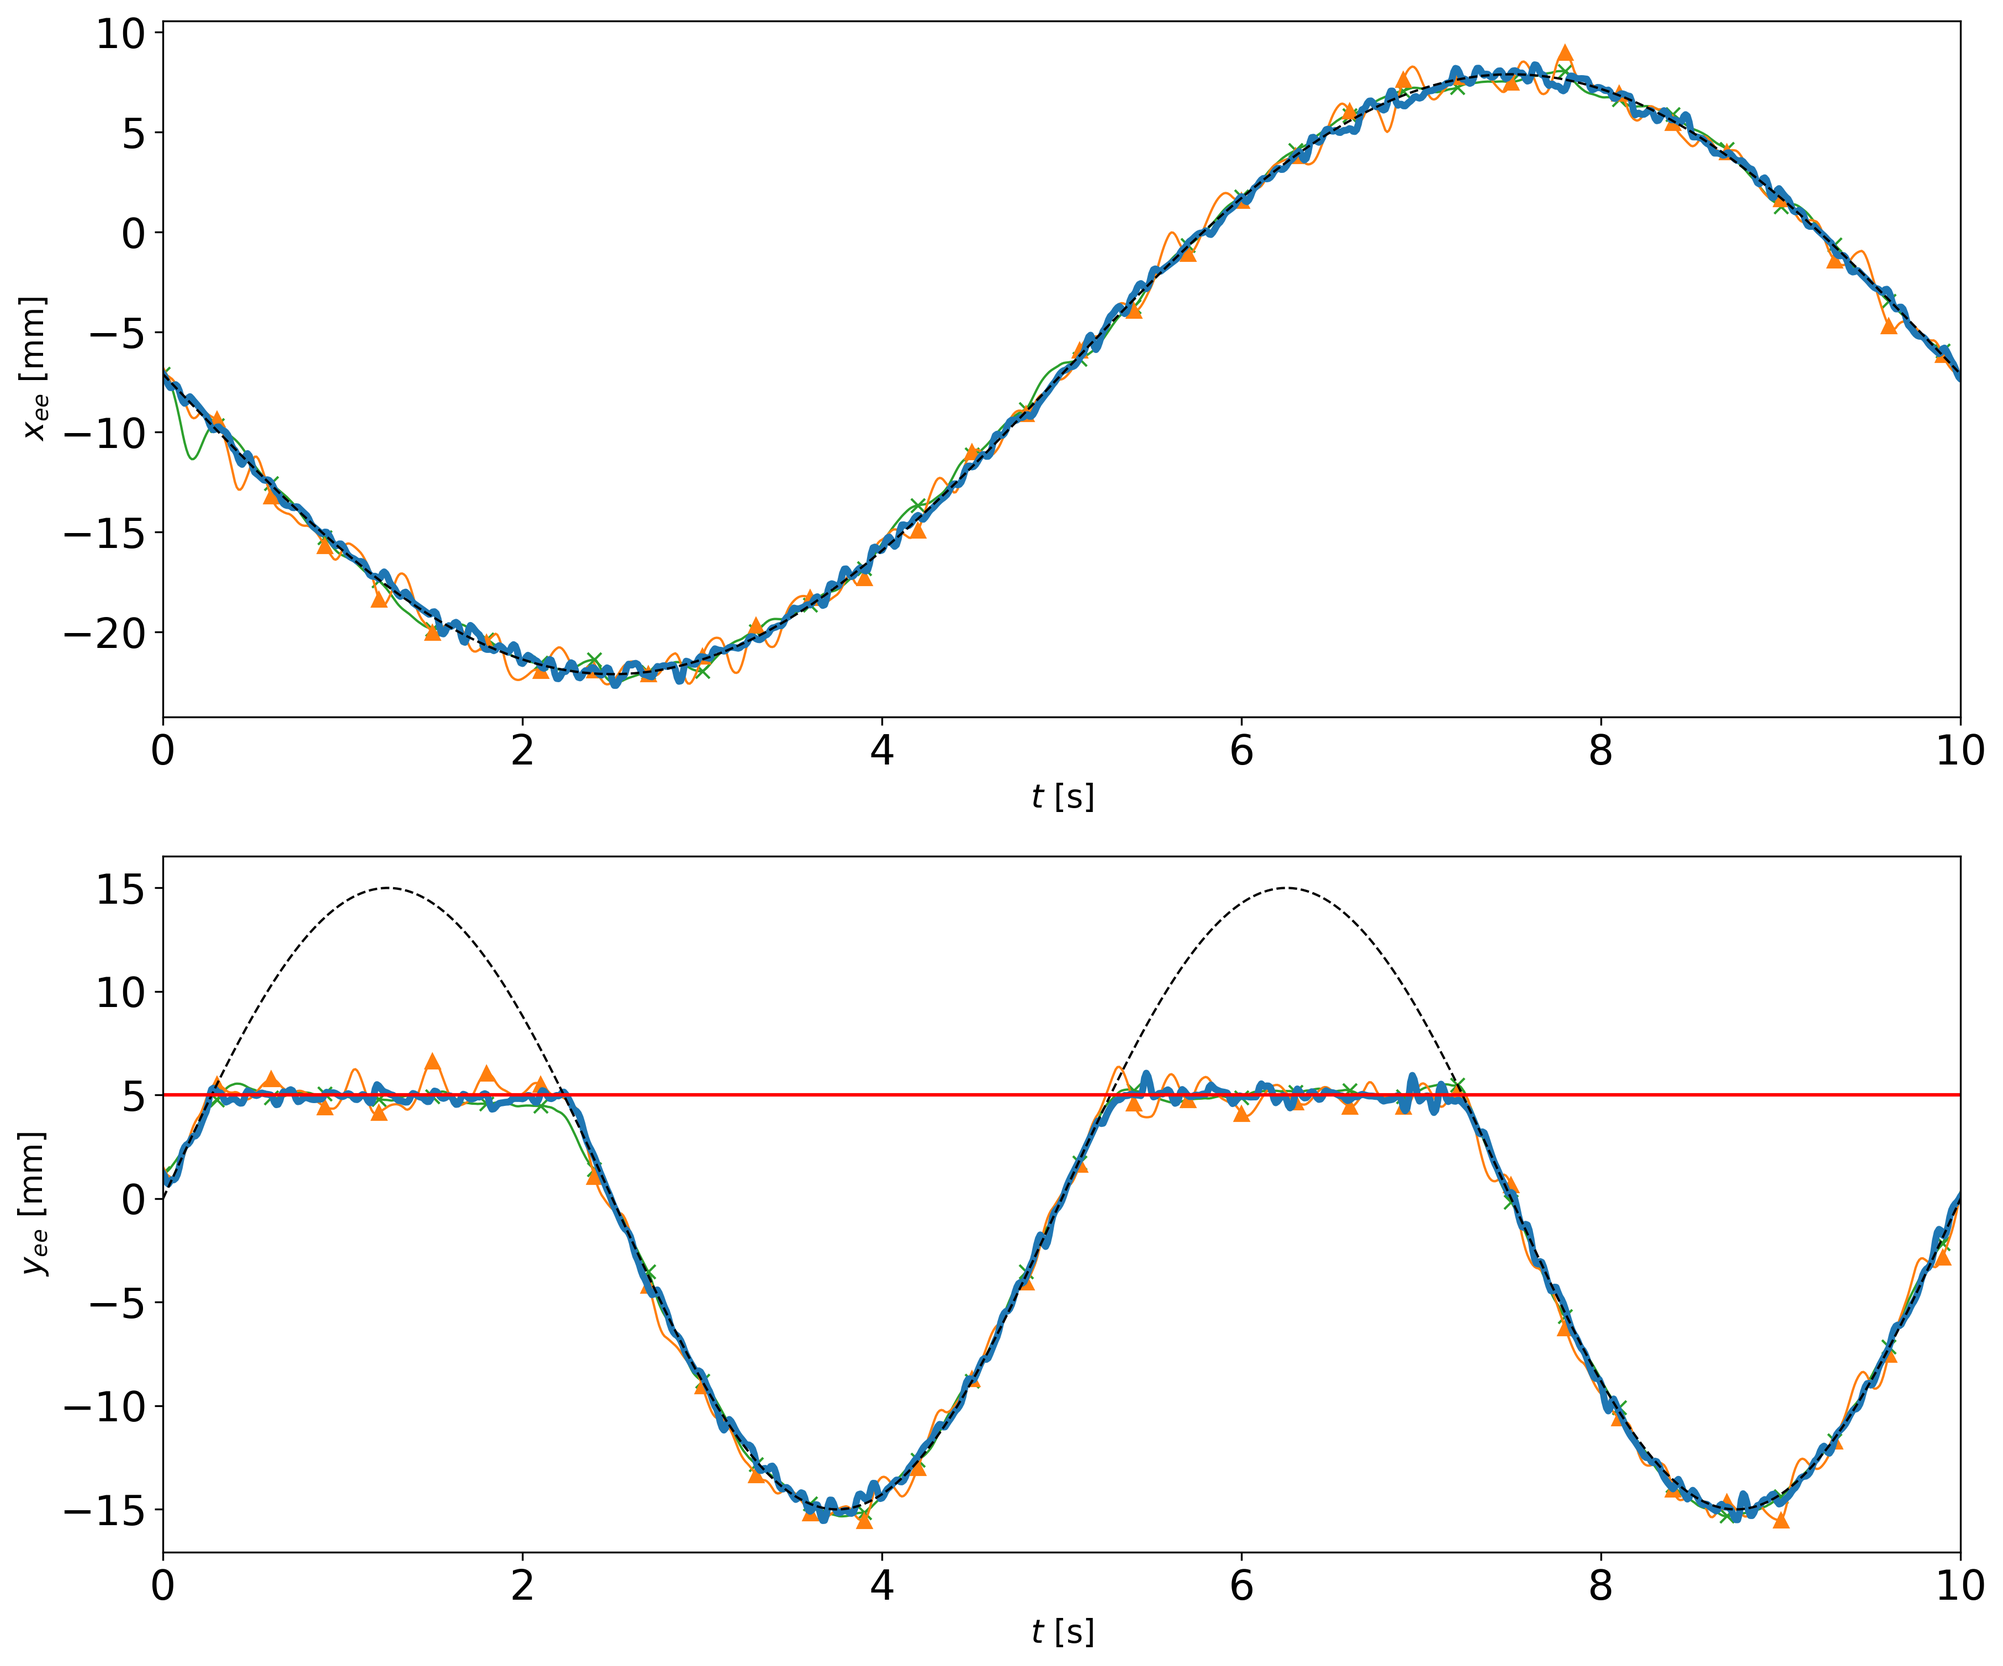
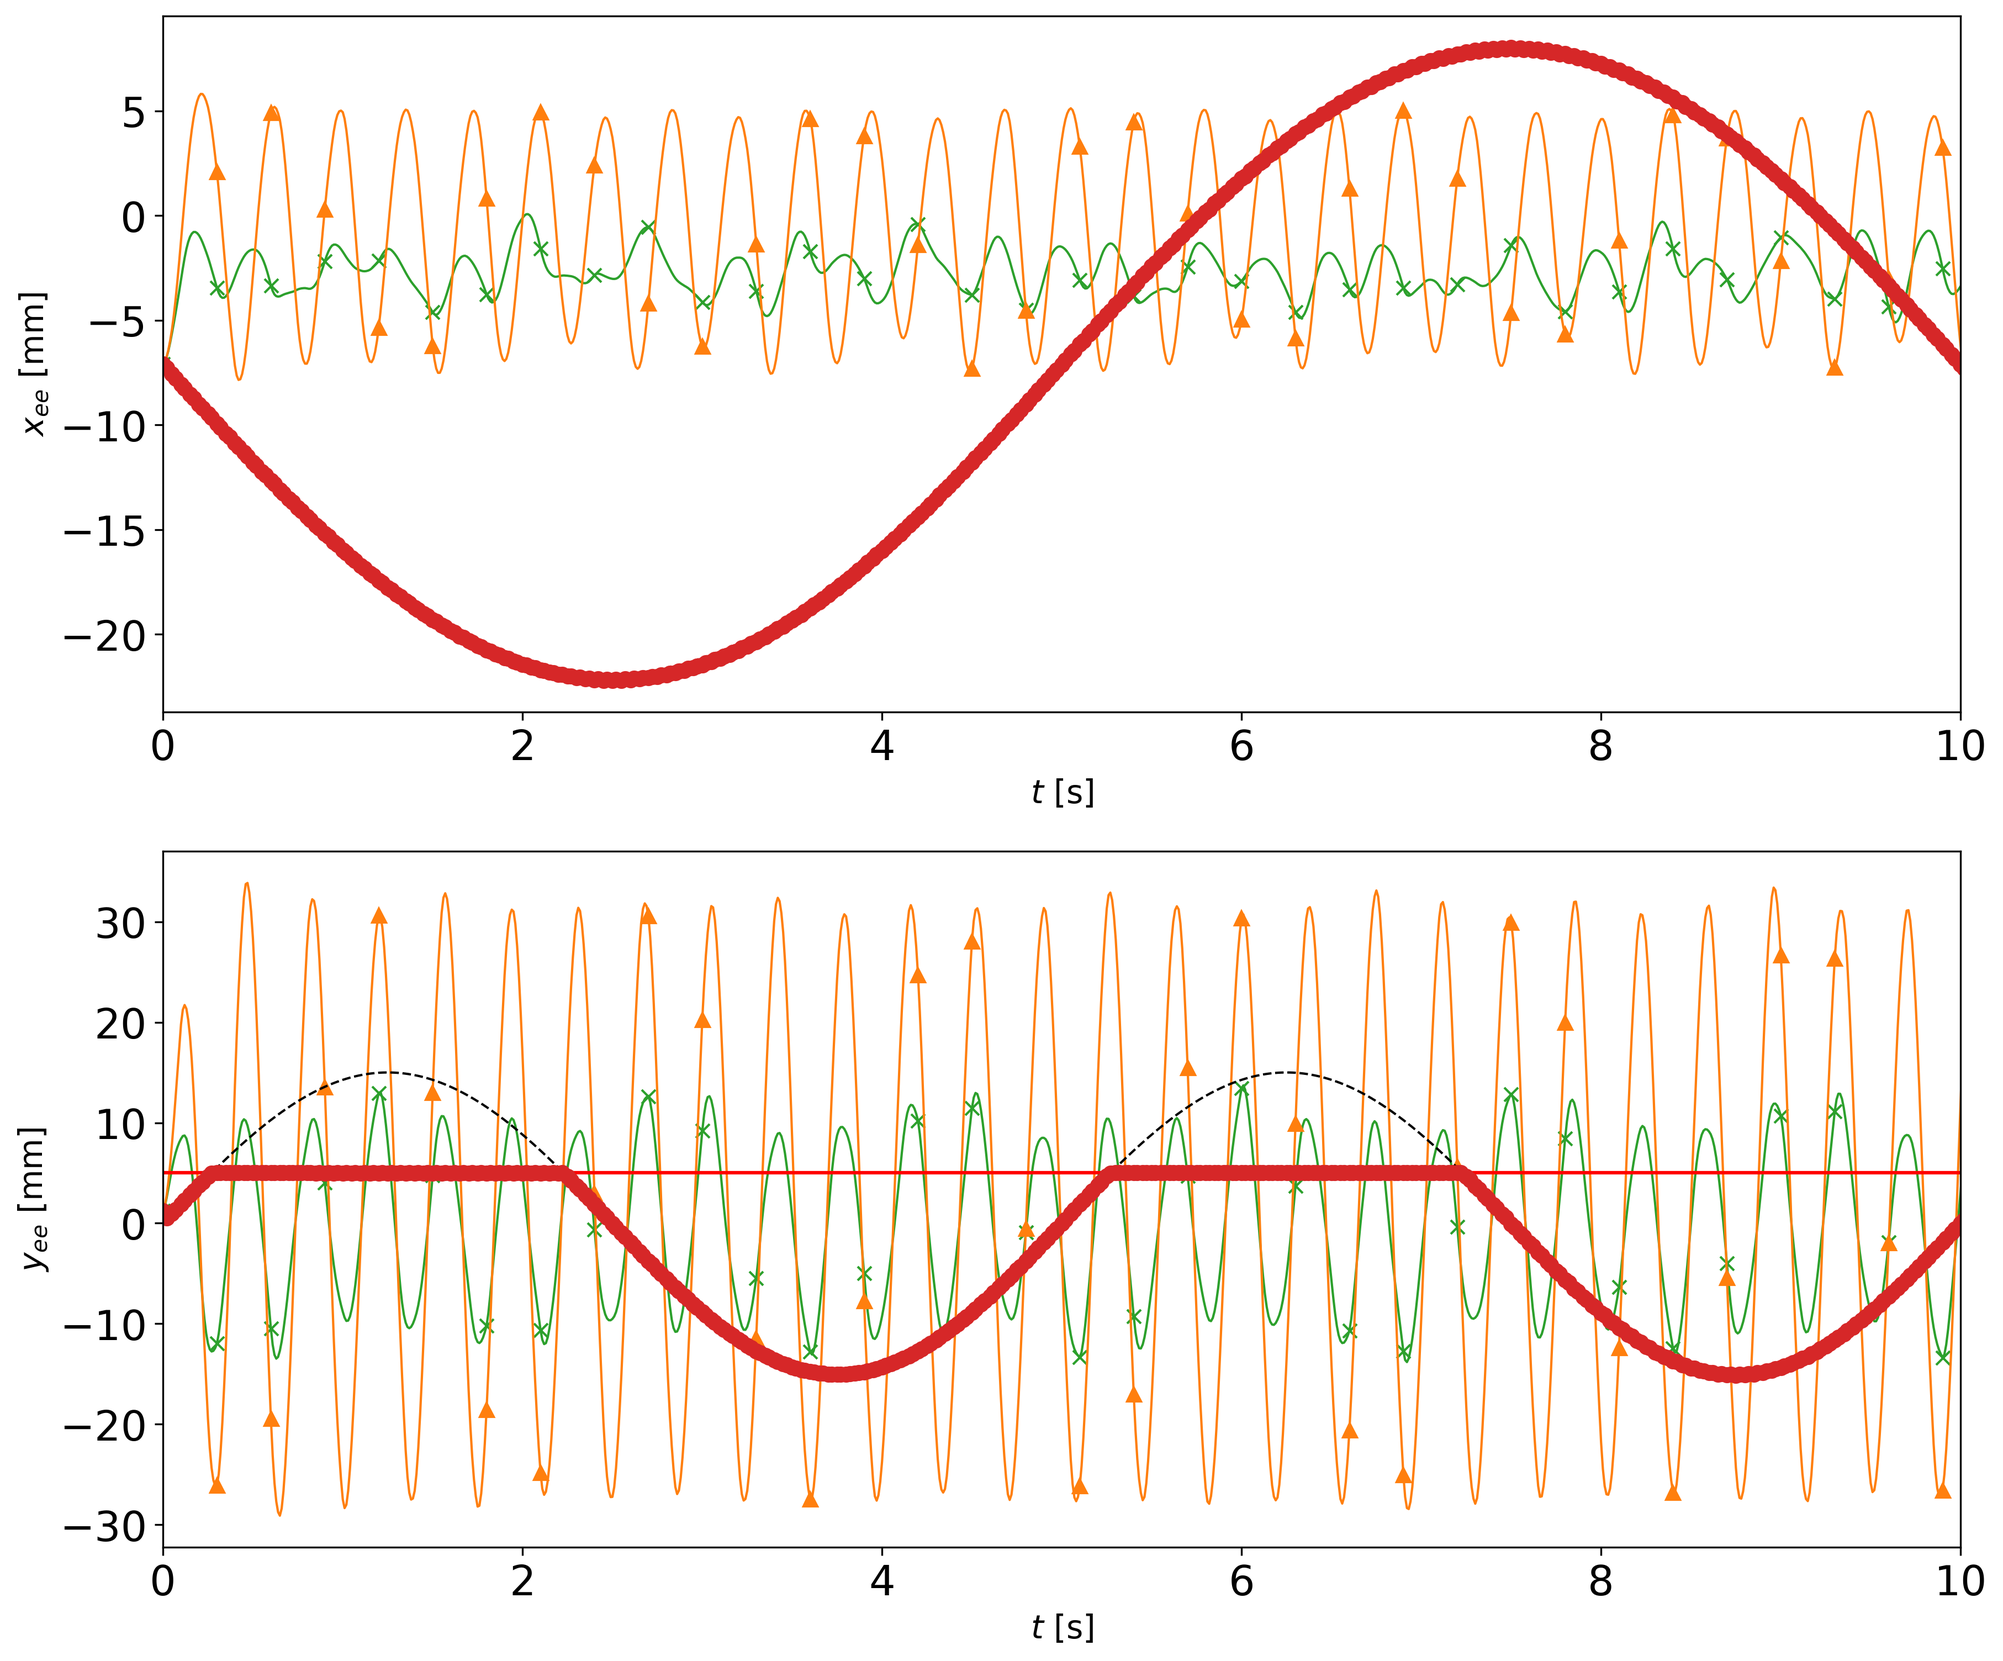
Fixed bug in constraint penalization. Continuing to debug time-delay case.

diff --git a/examples/hardware/diamond_SSM.py b/examples/hardware/diamond_SSM.py
@@ -181,8 +181,8 @@ def run_scp():
     pathToModel = path + '/SSMmodels/'
 
     # Specify a measurement and output model
-    cov_q = 0.1 * np.eye(3)
-    cov_v = 0.1 * np.eye(3 * len(DEFAULT_OUTPUT_NODES))
+    cov_q = 0.0 * np.eye(3)
+    cov_v = 0.0 * np.eye(3 * len(DEFAULT_OUTPUT_NODES))
     prob.output_model = prob.Robot.get_measurement_model(nodes=[1354])
 
     # Setup equilibrium point (no time delay and observed position and velocity of tip)
@@ -191,8 +191,7 @@ def run_scp():
         outputModel = linearModel([TIP_NODE], 1628, vel=False)
         z_eq_point = outputModel.evaluate(x_eq, qv=False)
         SSM_data = loadmat(join(pathToModel, 'SSM_model_delay.mat'))['py_data'][0, 0]
-        prob.measurement_model = MeasurementModel(nodes=[1354], num_nodes=1628, pos=True, vel=False, S_q=cov_q,
-                                                  S_v=cov_v)
+        prob.measurement_model = MeasurementModel(nodes=[1354], num_nodes=1628, pos=True, vel=False, S_q=cov_q)
         outputSSMModel = OutputModel(15, 3)
         Cout = outputSSMModel.C
     else:
@@ -211,7 +210,7 @@ def run_scp():
                             model=raw_model, params=raw_params, C=Cout)
 
     # This dt for when to recalculate control
-    dt = 0.02
+    dt = 0.01
 
     ##############################################
     # Problem 1, Figure 8 with constraints
@@ -236,7 +235,7 @@ def run_scp():
     # cost.R = .003 * np.eye(model.input_dim)
 
     # Define controller (wait 3 seconds of simulation time to start)
-    prob.controller = scp(model, cost, dt, N_replan=2, delay=3)
+    prob.controller = scp(model, cost, dt, N_replan=1, delay=3)
 
     # Saving paths
     prob.opt['sim_duration'] = 13.
@@ -295,22 +294,22 @@ def run_gusto_solver():
     # Problem 1, Figure 8 with constraints
     #############################################
     # Define cost functions and trajectory
-    # Qz = np.zeros((model.output_dim, model.output_dim))
-    # Qz[0, 0] = 100  # corresponding to x position of end effector
-    # Qz[1, 1] = 100  # corresponding to y position of end effector
-    # Qz[2, 2] = 0.0  # corresponding to z position of end effector
-    # R = .00001 * np.eye(model.input_dim)
+    Qz = np.zeros((model.output_dim, model.output_dim))
+    Qz[0, 0] = 100  # corresponding to x position of end effector
+    Qz[1, 1] = 100  # corresponding to y position of end effector
+    Qz[2, 2] = 0.0  # corresponding to z position of end effector
+    R = .00001 * np.eye(model.input_dim)
 
     #### Define Target Trajectory ####
-    # M = 3
-    # T = 10
-    # N = 1000
-    # t = np.linspace(0, M * T, M * N)
-    # th = np.linspace(0, M * 2 * np.pi, M * N)
-    # zf_target = np.zeros((M * N, model.output_dim))
-    #
-    # zf_target[:, 0] = -15. * np.sin(th) - 7.1
-    # zf_target[:, 1] = 15. * np.sin(2 * th)
+    M = 3
+    T = 10
+    N = 1000
+    t = np.linspace(0, M * T, M * N)
+    th = np.linspace(0, M * 2 * np.pi, M * N)
+    zf_target = np.zeros((M * N, model.output_dim))
+
+    zf_target[:, 0] = -15. * np.sin(th) - 7.1
+    zf_target[:, 1] = 15. * np.sin(2 * th)
 
     # # zf_target[:, 0] = -25. * np.sin(th) + 13.
     # # zf_target[:, 1] = 25. * np.sin(2 * th) + 20
@@ -331,33 +330,34 @@ def run_gusto_solver():
     # Problem 2, Circle on side (2pi/T = frequency rad/s)
     #####################################################
     # Multiply 'th' in sine terms to factor rad/s frequency
-    M = 3
-    T = 5.
-    N = 1000
-    t = np.linspace(0, M * T, M * N)
-    th = np.linspace(0, M * 2 * np.pi, M * N)
-    x_target = np.zeros(M * N)
-
+    # M = 3
+    # T = 5.
+    # N = 1000
+    # t = np.linspace(0, M * T, M * N)
+    # th = np.linspace(0, M * 2 * np.pi, M * N)
+    # x_target = np.zeros(M * N)
+    #
     # r = 15
     # y_target = r * np.sin(th)
     # z_target = r - r * np.cos(th) + 107.0
 
-    r = 15
-    phi = 17
-    y_target = r * np.sin(phi * T / (2 * np.pi) * th)
-    z_target = r - r * np.cos(phi * T / (2 * np.pi) * th) + 107.0
+    # r = 15
+    # phi = 17
+    # y_target = r * np.sin(phi * T / (2 * np.pi) * th)
+    # z_target = r - r * np.cos(phi * T / (2 * np.pi) * th) + 107.0
 
-    zf_target = np.zeros((M * N, 6))
-    zf_target[:, 0] = x_target
-    zf_target[:, 1] = y_target
-    zf_target[:, 2] = z_target
+    # zf_target = np.zeros((M * N, model.output_dim))
+    #
+    # zf_target[:, 0] = x_target
+    # zf_target[:, 1] = y_target
+    # zf_target[:, 2] = z_target
 
     # Cost
-    R = .00001 * np.eye(4)
-    Qz = np.zeros((6, 6))
-    Qz[0, 0] = 100.0  # corresponding to x position of end effector
-    Qz[1, 1] = 100.0  # corresponding to y position of end effector
-    Qz[2, 2] = 100.0  # corresponding to z position of end effector
+    # R = .00001 * np.eye(4)
+    # Qz = np.zeros((model.output_dim, model.output_dim))
+    # Qz[0, 0] = 100.0  # corresponding to x position of end effector
+    # Qz[1, 1] = 100.0  # corresponding to y position of end effector
+    # Qz[2, 2] = 100.0  # corresponding to z position of end effector
 
     z = model.zfyf_to_zy(zf=zf_target)
 
@@ -372,19 +372,19 @@ def run_gusto_solver():
     # dU = HyperRectangle([dU_max, dU_max, dU_max, dU_max], [-dU_max, -dU_max, -dU_max, -dU_max])
 
     # State constraints (q,v format)
-    # Hz = np.zeros((1, 6))
-    # Hz[0, 1] = 1
-    # b_z = np.array([5])
-    # X = Polyhedron(A=Hz, b=b_z - Hz @ model.z_ref)
+    Hz = np.zeros((1, model.output_dim))
+    Hz[0, 1] = 1
+    b_z = np.array([5])
+    X = Polyhedron(A=Hz, b=b_z - Hz @ model.y_ref)
 
     # No constraints for now
-    X = None
+    # X = None
 
     # Define initial condition to be x_ref for initial solve
-    x0 = model.compute_RO_state(model.y_ref)
+    x0 = np.zeros(model.state_dim)
 
     # Define GuSTO model (dt here is discretization of model)
-    dt = 0.02
+    dt = 0.01
     N = 3
     gusto_model = SSMGuSTO(model)
 

diff --git a/examples/hardware/plotting.py b/examples/hardware/plotting.py
@@ -10,20 +10,20 @@ from sofacontrol.utils import load_data, set_axes_equal
 
 path = dirname(abspath(__file__))
 
-constrained = False
+constrained = True
 plot_rompc = False
 #############################################
 # Problem 1, Figure 8 with constraints
 #############################################
-# M = 3
-# T = 10
-# N = 500
-# t_target = np.linspace(0, M*T, M*N)
-# th = np.linspace(0, M * 2 * np.pi, M*N)
-# zf_target = np.zeros((M*N, 6))
-#
-# zf_target[:, 3] = -15. * np.sin(th) - 7.1
-# zf_target[:, 4] = 15. * np.sin(2 * th)
+M = 3
+T = 10
+N = 500
+t_target = np.linspace(0, M*T, M*N)
+th = np.linspace(0, M * 2 * np.pi, M*N)
+zf_target = np.zeros((M*N, 6))
+
+zf_target[:, 3] = -15. * np.sin(th) - 7.1
+zf_target[:, 4] = 15. * np.sin(2 * th)
 
 # zf_target[:, 3] = -25. * np.sin(th) + 13
 # zf_target[:, 4] = 25. * np.sin(2 * th) + 20
@@ -47,28 +47,28 @@ name = 'figure8'
 ##############################################
 # Problem 2, Circle on side
 ##############################################
-M = 3
-T = 5
-N = 1000
-t_target = np.linspace(0, M*T, M*N)
-th = np.linspace(0, M*2*np.pi, M*N)
-
-r = 15
-phi = 17
-x_target = np.zeros(M*N)
-y_target = r * np.sin(phi * T / (2 * np.pi) * th)
-z_target = r - r * np.cos(phi * T / (2 * np.pi) * th) + 107.0
+# M = 3
+# T = 5
+# N = 1000
+# t_target = np.linspace(0, M*T, M*N)
+# th = np.linspace(0, M*2*np.pi, M*N)
+#
+# r = 15
+# phi = 17
+# x_target = np.zeros(M*N)
+# y_target = r * np.sin(phi * T / (2 * np.pi) * th)
+# z_target = r - r * np.cos(phi * T / (2 * np.pi) * th) + 107.0
 
 # r = 15
 # x_target = np.zeros(M*N)
 # y_target = r * np.sin(th)
 # z_target = r - r * np.cos(th) + 107
 
-zf_target = np.zeros((M*N, 6))
-zf_target[:, 3] = x_target
-zf_target[:, 4] = y_target
-zf_target[:, 5] = z_target
-name = 'circle'
+# zf_target = np.zeros((M*N, 6))
+# zf_target[:, 3] = x_target
+# zf_target[:, 4] = y_target
+# zf_target[:, 5] = z_target
+# name = 'circle'
 
 
 # Load SSM data
@@ -118,7 +118,7 @@ z_rompc = rompc_data['z'][idx:, :]
 solve_times_rompc = rompc_data['info']['solve_times']
 real_time_limit_rompc = rompc_data['info']['rollout_time']
 
-plot_rollouts = False
+plot_rollouts = True
 m_w = 30
 
 fig1 = plt.figure(figsize=(10, 8), facecolor='w', edgecolor='k')

diff --git a/sofacontrol/scp/gusto.py b/sofacontrol/scp/gusto.py
@@ -189,9 +189,18 @@ class GuSTO:
         Requires both state and final state constraints to be specified by Polyhedra (see gusto_utils.py)
         """
         max_violation = 0.0
+        update_constraint = False
         if self.X is not None:
             for i in range(x.shape[0]):
-                val = self.X.get_constraint_violation(x[i, :])
+                # TODO: x is reduced dynamics so if we have a nonlinear observer, then the constraint should be
+                # with respect to the performance variable
+                if self.nonlinear_observer:
+                    x_curr = np.atleast_2d(x[i, :])
+                    H_curr, c_curr = self.get_observer_linearizations(x_curr)
+                    self.X.update(H_curr[0], c_curr[0])
+                    update_constraint = True
+
+                val = self.X.get_constraint_violation(x[i, :], update=update_constraint)
                 if val > max_violation:
                     max_violation = val
 
@@ -237,9 +246,10 @@ class GuSTO:
 
         return A_d, B_d, d_d
 
-    def get_observer_linearizations(self, x, u):
+    def get_observer_linearizations(self, x, u=None):
         """
         Return the affine observer mappings at each point along trajectory in a list
+        TODO: Add input contribution to the dynamics
         """
         H_d = []
         c_d = []
@@ -359,7 +369,7 @@ class GuSTO:
                 self.xopt = np.copy(self.x_k)
                 self.uopt = np.copy(self.u_k)
                 if self.nonlinear_observer:
-                    self.zopt = self.model.dyn_sys.C_map(self.xopt.T)
+                    self.zopt = self.model.dyn_sys.W_map(self.xopt.T)
                 else:
                     self.zopt = np.transpose(self.model.H @ self.xopt.T)
                 return

diff --git a/sofacontrol/scp/locp.py b/sofacontrol/scp/locp.py
@@ -81,7 +81,7 @@ class LOCP:
             self.dd = cp.Parameter(self.N * self.n_x)
 
             # Adding observer linearization parameters here. Expect parameters to be None
-            # If dynamics class has nonlinear_observer = False. In this case this class should
+            # if dynamics class has nonlinear_observer = False. In this case this class should
             # use self.H as shown above. This seems to be different from when not warm_starting
             if self.nonlinear_observer:
                 self.Hd = [cp.Parameter((self.n_z, self.n_x)) for i in range(self.N + 1)]
@@ -326,7 +326,7 @@ class LOCP:
                 cdfull = cdfull[self.n_z:]
                 XAfull = block_diag(*[self.X.A for j in range(self.N)]) @ Hfull
                 Xbfull = np.tile(self.X.b, self.N) - block_diag(*[self.X.A for j in range(self.N)]) @ cdfull
-                constr += [XAfull @ self.x[self.n_z:] <= Xbfull]
+                constr += [XAfull @ self.x[self.n_x:] <= Xbfull]
             else:
                 XAfull = block_diag(*[self.X.A for j in range(self.N)])
                 Xbfull = np.tile(self.X.b, self.N)

diff --git a/sofacontrol/utils.py b/sofacontrol/utils.py
@@ -365,6 +365,8 @@ class Polyhedron:
     def __init__(self, A, b, with_reproject=False):
         self.A = A
         self.b = b
+        self.Ak = None
+        self.bk = None
 
         self.with_reproject = with_reproject
 
@@ -389,11 +391,14 @@ class Polyhedron:
         else:
             return True
 
-    def get_constraint_violation(self, x):
+    def get_constraint_violation(self, x, update=False):
         """
         Returns distance to constraint, i.e. how large the deviation is
         """
-        return np.linalg.norm(np.maximum(self.A @ x - self.b, 0))
+        if update:
+            return np.linalg.norm(np.maximum(self.Ak @ x - self.bk, 0))
+        else:
+            return np.linalg.norm(np.maximum(self.A @ x - self.b, 0))
 
     def project_to_polyhedron(self, x):
         if not self.with_reproject:
@@ -405,6 +410,9 @@ class Polyhedron:
         x_proj_alt = results.x
         return x_proj_alt
 
+    def update(self, Hk, ck):
+        self.Ak = np.dot(self.A, Hk)
+        self.bk = self.b - np.dot(self.A, ck)
 
 class HyperRectangle(Polyhedron):
     def __init__(self, ub, lb):

diff --git a/sofacontrol/SSM/controllers.py b/sofacontrol/SSM/controllers.py
@@ -115,10 +115,10 @@ class TemplateController(closed_loop_controller.TemplateController):
             # Updating controller (self.u) and/or policy (if first step or receding horizon)
             # Note: waiting to start simulation allows us to also populate the history to satisfy time-delay reqs
             if round(sim_time - self.t_delay, 4) >= round(self.t_compute, 4):  # self.t_compute set to 0
-                # TODO: Add lifting function to get delay embeddings (i.e., coordinatesEmbeddingControl)
+                # TODO: Add lifting function to get delay embeddings
                 y_belief = self.data.get_y_delay()
 
-                # TODO: Update observer value based on past measurements (set to current measurements for now)
+                # TODO: Update observer value based on past measurements
                 self.observer.update(None, y_belief, None)
 
                 if self.recompute_policy(self.t_compute):

diff --git a/sofacontrol/SSM/SSM_utils.py b/sofacontrol/SSM/SSM_utils.py
@@ -40,7 +40,7 @@ class SSMData:
             # udel = np.zeros((self.delay * self.u.shape[1]))
 
             for j in range(self.delays):
-                fillrange_y = range(self.y.shape[1] * j, self.y.shape[1] * (j + 1))
+                fillrange_y = range(-self.y.shape[1] * (j + 1), -self.y.shape[1] * j)
                 ydel[fillrange_y] = self.y[step - (j + 1), :]
 
                 # fillrange_u = range(self.u.shape[1] * j, self.u.shape[1] * (j + 1))

diff --git a/sofacontrol/SSM/ssm.py b/sofacontrol/SSM/ssm.py
@@ -189,7 +189,7 @@ class SSM:
     def reduced_to_output(self, x):
         return jnp.dot(self.C, jnp.dot(self.w_coeff, jnp.asarray(self.ssm_phi(*x))))
 
-    @partial(jax.jit, static_argnums=(0,))
+    #@partial(jax.jit, static_argnums=(0,))
     def observed_to_reduced(self, y):
         if self.v_coeff is not None:
             return jnp.dot(self.v_coeff, jnp.asarray(self.ssm_phi(*y)))
